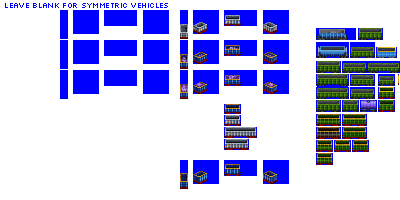
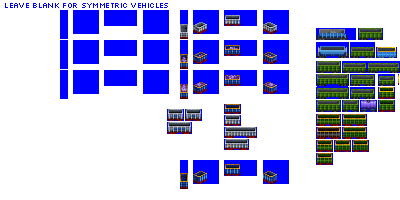
Change: add type two aggregate dump cars

Changed region(s): [[0.42, 0.54, 0.51, 0.69]]

diff --git a/src/vehicles/pony/aggregate_type_two_dump_cars_pony.py b/src/vehicles/pony/aggregate_type_two_dump_cars_pony.py
@@ -1,95 +1,27 @@
-from train import DumpCarAggregateConsist, FreightCar
+from train import DumpCarAggregateTypeTwoConsist, FreightCar
 
 
 def main(roster_id, **kwargs):
     # --------------- standard gauge ---------------------------------------------------------------
 
-    consist = DumpCarAggregateConsist(
+    consist = DumpCarAggregateTypeTwoConsist(
         roster_id=roster_id,
         roster_id_providing_module=kwargs["roster_id_providing_module"],
-        base_numeric_id=14730,
-        gen=1,
-        subtype="A",
-        sprites_complete=True,
-    )
-
-    consist.add_unit(type=FreightCar, chassis="2_axle_gapped_16px")
-
-    # gen 1 also covers gen 2
-
-    consist = DumpCarAggregateConsist(
-        roster_id=roster_id,
-        roster_id_providing_module=kwargs["roster_id_providing_module"],
-        base_numeric_id=11390,
-        gen=3,
-        subtype="A",
-        sprites_complete=True,
-    )
-
-    consist.add_unit(type=FreightCar, chassis="2_axle_gapped_16px")
-
-    consist = DumpCarAggregateConsist(
-        roster_id=roster_id,
-        roster_id_providing_module=kwargs["roster_id_providing_module"],
-        base_numeric_id=11400,
-        gen=3,
-        subtype="B",
-        sprites_complete=True,
-    )
-
-    consist.add_unit(type=FreightCar, chassis="4_axle_gapped_24px")
-
-    consist = DumpCarAggregateConsist(
-        roster_id=roster_id,
-        roster_id_providing_module=kwargs["roster_id_providing_module"],
-        base_numeric_id=11410,
-        gen=4,
-        subtype="A",
-        sprites_complete=True,
-    )
-
-    consist.add_unit(type=FreightCar, chassis="2_axle_gapped_16px")
-
-    consist = DumpCarAggregateConsist(
-        roster_id=roster_id,
-        roster_id_providing_module=kwargs["roster_id_providing_module"],
-        base_numeric_id=11420,
-        gen=4,
-        subtype="B",
-        sprites_complete=True,
-    )
-
-    consist.add_unit(type=FreightCar, chassis="4_axle_sparse_24px")
-
-    consist = DumpCarAggregateConsist(
-        roster_id=roster_id,
-        roster_id_providing_module=kwargs["roster_id_providing_module"],
-        base_numeric_id=15740,
-        gen=5,
-        subtype="A",
-        sprites_complete=True,
-    )
-
-    consist.add_unit(type=FreightCar, chassis="2_axle_gapped_greebled_16px")
-
-    consist = DumpCarAggregateConsist(
-        roster_id=roster_id,
-        roster_id_providing_module=kwargs["roster_id_providing_module"],
-        base_numeric_id=10850,
+        base_numeric_id=20380,
         gen=5,
         subtype="B",
         sprites_complete=True,
     )
 
-    consist.add_unit(type=FreightCar, chassis="4_axle_gapped_greebled_24px")
+    consist.add_unit(type=FreightCar, chassis="4_axle_sparse_greebled_24px")
 
-    consist = DumpCarAggregateConsist(
+    consist = DumpCarAggregateTypeTwoConsist(
         roster_id=roster_id,
         roster_id_providing_module=kwargs["roster_id_providing_module"],
-        base_numeric_id=11150,
+        base_numeric_id=20390,
         gen=5,
         subtype="C",
         sprites_complete=True,
     )
 
-    consist.add_unit(type=FreightCar, chassis="4_axle_gapped_greebled_32px")
+    consist.add_unit(type=FreightCar, chassis="4_axle_sparse_greebled_32px")

diff --git a/src/train.py b/src/train.py
@@ -3818,6 +3818,35 @@ class DumpCarAggregateTypeOneConsist(DumpCarConsistBase):
         self.base_id = "aggregate_type_one_dump_car"
         super().__init__(**kwargs)
         self.default_cargos = polar_fox.constants.default_cargos["dump_aggregates"]
+        # buyable variant groups are created post-hoc and can group across subclasses
+        # any buyable variants (liveries) within the subclass will be automatically added to the group
+        self.use_named_buyable_variant_group = "wagon_group_aggregate_dump_cars"
+        # don't include aggregate wagons in randomised lists, they don't look good
+        self.randomised_candidate_groups = []
+        self._joker = True
+        # Graphics configuration
+        self.gestalt_graphics.liveries = [
+            global_constants.freight_wagon_liveries["RANDOM_FROM_CONSIST_LIVERIES_2"],
+            global_constants.freight_wagon_liveries["COMPANY_COLOUR_USE_WEATHERING"],
+            global_constants.freight_wagon_liveries[
+                "COMPLEMENT_COMPANY_COLOUR_USE_WEATHERING"
+            ],
+        ]
+
+
+class DumpCarAggregateTypeTwoConsist(DumpCarConsistBase):
+    """
+    Aggregate Car.
+    Same as standard dump car, but different appearance and default cargos.
+    """
+
+    def __init__(self, **kwargs):
+        self.base_id = "aggregate_type_two_dump_car"
+        super().__init__(**kwargs)
+        self.default_cargos = polar_fox.constants.default_cargos["dump_aggregates"]
+        # buyable variant groups are created post-hoc and can group across subclasses
+        # any buyable variants (liveries) within the subclass will be automatically added to the group
+        self.use_named_buyable_variant_group = "wagon_group_aggregate_dump_cars"
         # don't include aggregate wagons in randomised lists, they don't look good
         self.randomised_candidate_groups = []
         self._joker = True

diff --git a/src/global_constants.py b/src/global_constants.py
@@ -61,6 +61,7 @@ wagon_module_names = [
     "dump_cars_high_side",
     "randomised_dump_cars",
     "aggregate_type_one_dump_cars",
+    "aggregate_type_two_dump_cars",
     "ore_dump_cars",
     "scrap_metal_cars",
     "skip_cars",
@@ -265,6 +266,7 @@ intro_month_offsets_by_role_group = {
 # only needed for groups composing more than one type of consist
 buyable_variant_group_consist_base_ids_by_group_name = {
     "wagon_group_acid_tank_cars": "acid_tank_car",
+    "wagon_group_aggregate_dump_cars": "aggregate_type_one_dump_car",
     "wagon_group_aggregate_hopper_cars": "aggregate_type_one_hopper_car",
     "wagon_group_automobile_cars": "double_deck_automobile_car",
     "wagon_group_box_cars": "box_car",
